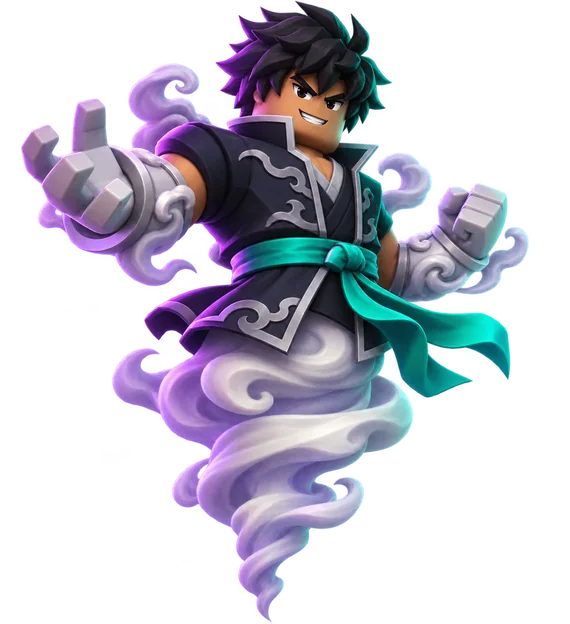
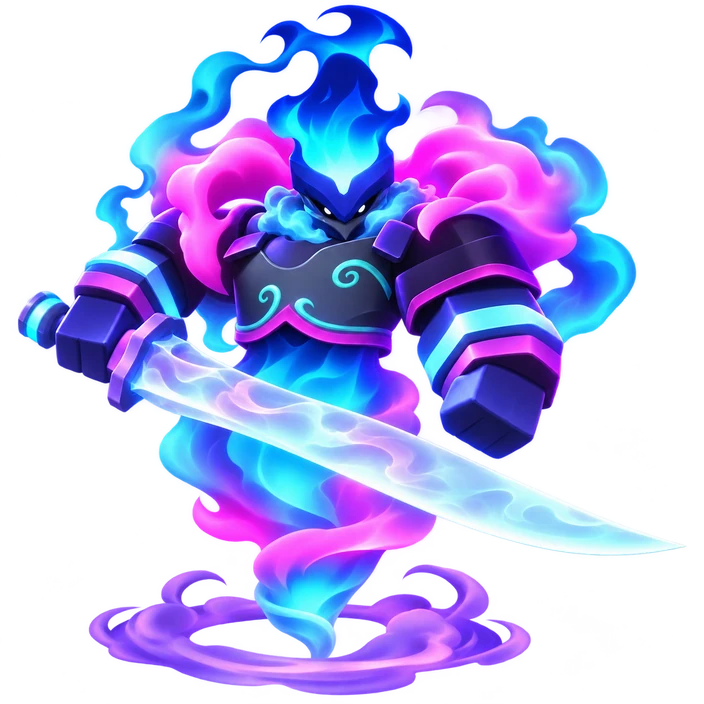
Regenerate Caius as the transformed Gas Fruit knight (#968)

diff --git a/cc/index.html b/cc/index.html
@@ -11,8 +11,8 @@
 <link rel="preconnect" href="https://fonts.googleapis.com">
 <link rel="preconnect" href="https://fonts.gstatic.com" crossorigin>
 <link href="https://fonts.googleapis.com/css2?family=Fredoka:wght@400;500;600;700&family=Nunito:wght@400;600;700;800&display=swap" rel="stylesheet">
-<link rel="stylesheet" href="./cc-games.css?v=1.1.0">
-<link rel="stylesheet" href="./cc-arcade.css?v=1.1.0">
+<link rel="stylesheet" href="./cc-games.css?v=1.1.1">
+<link rel="stylesheet" href="./cc-arcade.css?v=1.1.1">
 <style>
   :root {
     --bg: #0b1026;
@@ -401,7 +401,7 @@
       <li>Dad assigns each quest and sets its Robux reward.</li>
       <li>Finish the quest, then tell Dad. He marks it <b>Success</b> and the Robux go into your balance.</li>
       <li>If a quest is not done in time, Dad may mark it <b>Failed</b>. Some quests have a penalty, which is taken off your balance.</li>
-      <li>Earned Robux raise your level. The Kitsune grows another fox tail every two levels and the Smoke form grows stronger.</li>
+      <li>Earned Robux raise your level. The Kitsune grows another fox tail every two levels and Caius grows stronger in his Gas Knight form.</li>
       <li>Open the Arcade and choose your hero. A successful quest unlocks one free relic draw, including quests you finished earlier.</li>
       <li>The first win in each mini-game each Singapore day earns a 5 Robux request. Dad can approve it here or open a win link you share.</li>
       <li>When you want your Robux, ask Dad. He pays them out and records it here, so the balance is always right.</li>
@@ -547,9 +547,9 @@
 <script src="https://www.gstatic.com/firebasejs/10.12.0/firebase-auth-compat.js"></script>
 <script type="module">
 import * as C from './cc-core.mjs?v=1.0.0';
-import { createArcade } from './cc-arcade.mjs?v=1.1.0';
-import { receiptFor, arcadeLedgerEntry, GAMES, WIN_REWARD, ARCADE_VERSION } from './cc-arcade-core.mjs?v=1.1.0';
-import { avatarFor, coinSvg, COIN_DEFS } from './cc-avatars.mjs?v=1.0.0';
+import { createArcade } from './cc-arcade.mjs?v=1.1.1';
+import { receiptFor, arcadeLedgerEntry, GAMES, WIN_REWARD, ARCADE_VERSION, arcadeAssetPath } from './cc-arcade-core.mjs?v=1.1.1';
+import { avatarFor, coinSvg, COIN_DEFS } from './cc-avatars.mjs?v=1.1.1';
 
 /* ============================================================
    Firebase (the same project as the rest of the site)
@@ -731,7 +731,7 @@ function renderPlayers() {
       card.dataset.player = kid.id;
       card.dataset.action = 'pick-kid';
       card.dataset.kid = kid.id;
-      card.innerHTML = `<div class="player-banner"><img src="./assets/${kid.id}-banner.webp" alt="">
+      card.innerHTML = `<div class="player-banner"><img src="${arcadeAssetPath(kid.id + '-banner.webp')}" alt="">
           <div><p class="p-name">${esc(kid.name)}</p><p class="p-rank"></p></div></div>
         <div class="player-summary">
           <div class="avatar"><div class="avatar-art"></div><span class="lvl"></span></div>
@@ -748,7 +748,7 @@ function renderPlayers() {
       avatarCache[kid.id] = key;
     }
     card.querySelector('.lvl').textContent = 'Lv ' + lv.level;
-    card.querySelector('.p-rank').textContent = `${C.rankFor(kid.id, lv.level)} · ${kid.id === 'caius' ? 'Smoke' : kid.power}`;
+    card.querySelector('.p-rank').textContent = `${C.rankFor(kid.id, lv.level)} · ${kid.id === 'caius' ? 'Gas Fruit' : kid.power}`;
     card.querySelector('.balance').innerHTML = `${coinSvg(30)}<span data-balance="${kid.id}">${esc(C.formatRobux(s.balance))}</span><small>Robux</small>`;
     card.querySelector('.xp-bar > i').style.width = Math.round(lv.progress * 100) + '%';
     card.querySelector('.xp-a').textContent = `${C.formatRobux(lv.into)} / ${C.formatRobux(lv.need)} to Lv ${lv.level + 1}`;
